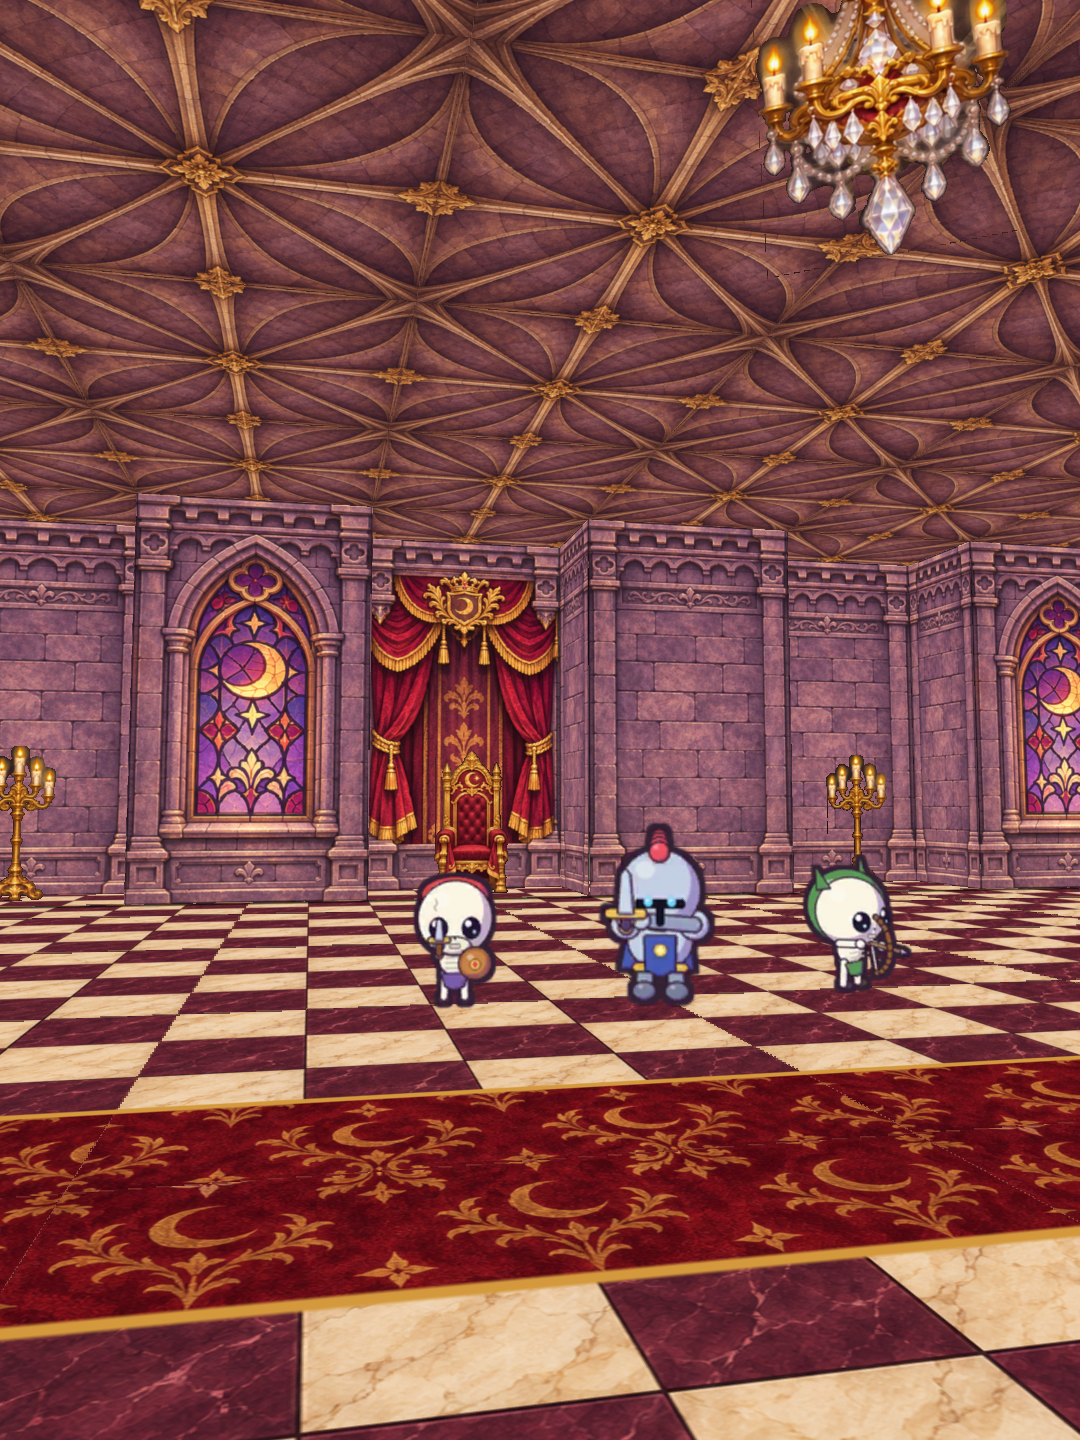
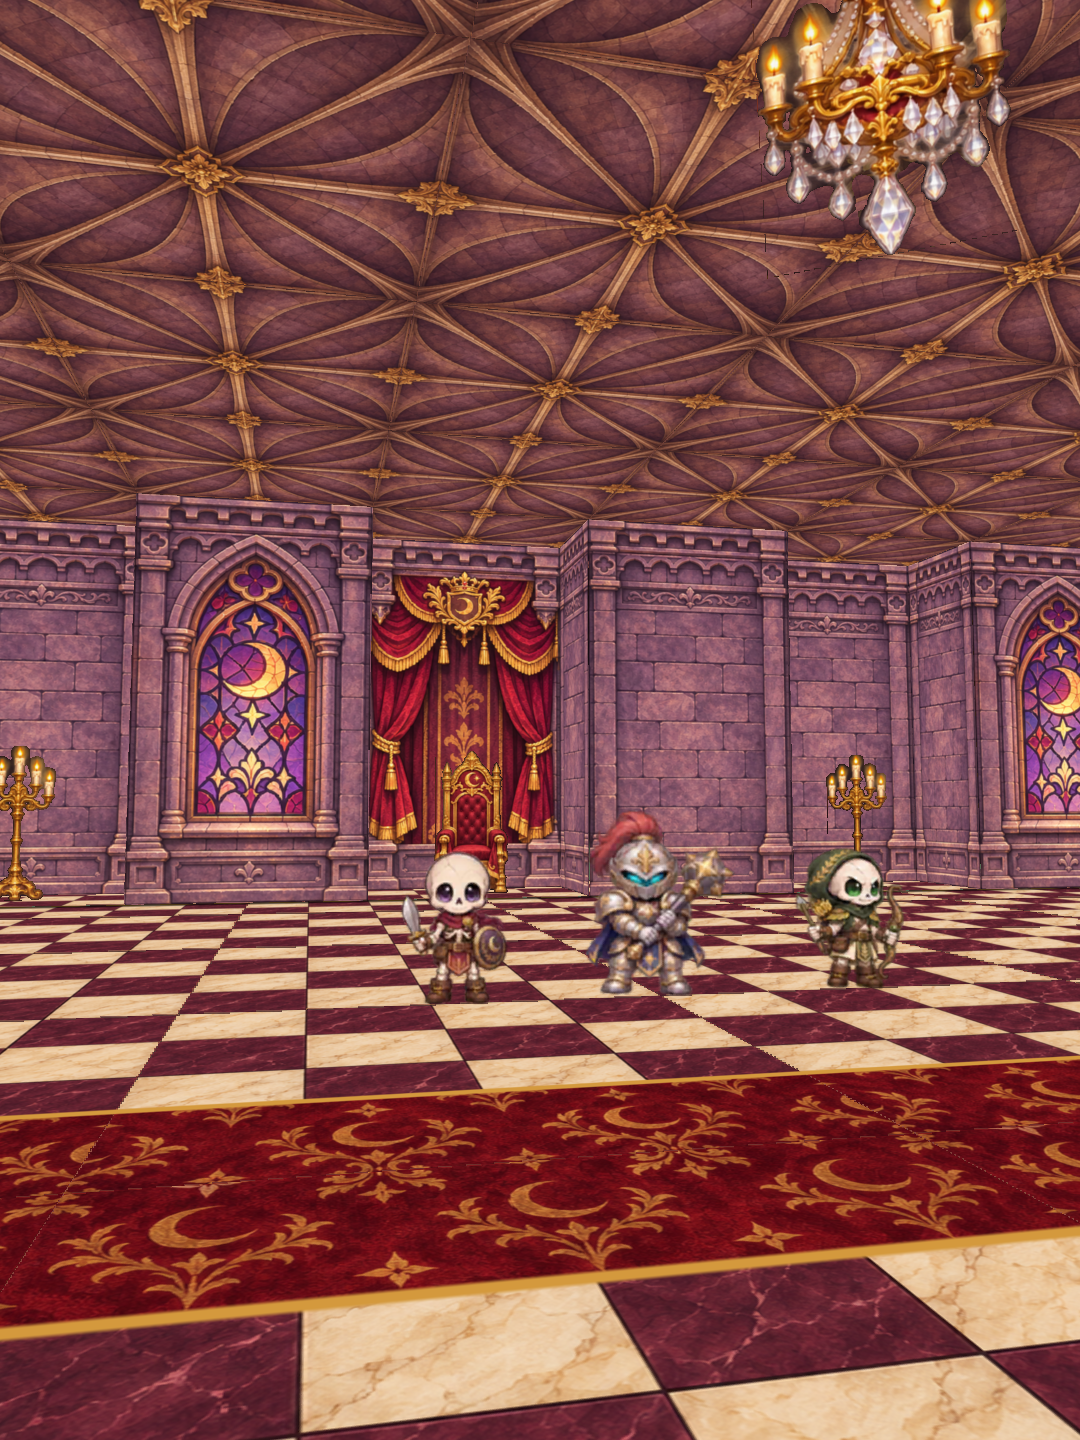
Verify castle chibi redraw in Unity Android and iOS builds

Changed region(s): [[0.55, 0.5625, 0.6722, 0.7188], [0.3667, 0.5938, 0.4889, 0.7188], [0.7333, 0.5625, 0.8556, 0.6875]]

diff --git a/spellduel-unity/Tools/check_castle_art.py b/spellduel-unity/Tools/check_castle_art.py
@@ -23,7 +23,7 @@ for name in ['walls','props','surfaces']:
  if name=='props':check(im.mode=='RGBA' and im.getchannel('A').getextrema()==(0,255),'props alpha')
  meta=Path(str(p)+'.meta').read_text()
  for value in ['enableMipMap: 0','maxTextureSize: 2048','nPOTScale: 0']:check(value in meta,name+' '+value)
-# Presentation scope: gameplay/data/enemy animation sources stay byte-identical.
+# Presentation scope: gameplay and data stay byte-identical to the task baseline.
 protected=['Assets/SpellDuel/Runtime/Combat*.cs','Assets/SpellDuel/Runtime/SoloBattle*.cs','Assets/SpellDuel/Runtime/Explore.cs','Assets/SpellDuel/Runtime/ExploreDungeon.cs','Assets/SpellDuel/Resources/dungeons.txt']
 for pattern in protected:
  for p in root.glob(pattern):

diff --git a/spellduel-unity/Docs/castle_2d_preview/enemy_redesign/README.md b/spellduel-unity/Docs/castle_2d_preview/enemy_redesign/README.md
@@ -16,4 +16,6 @@
 重建：`python spellduel-unity/Tools/sprite_enemies/pack_castle_painted.py`
 驗證：`python spellduel-unity/Tools/check_castle_enemies.py`
 
-原生 Unity 預覽及 Android/iOS 編譯證據完成後補入。本輪沒有修改 Runtime、戰鬥、連線、資料或動畫時間。
+原生 Unity 驗證：[41536524288](https://github.com/paul771127/AnimeGenerate/actions/runs/41536524288)，來源 commit `8242dcb`，成功。`castle_redesign_castle_*.png` 是 Unity 直接使用 SpriteEnemyView 的貼圖、材質及 UV 格式渲染；六列依序是待機、移動、蓄力、攻擊、受擊、倒地，每列八方向。`native_overview.jpg` 是八種原生檢查圖的縮圖總覽。五間城堡的新版敵人場景圖在上一層資料夾。
+
+八張遊戲 PNG 合計約 20.97 MiB，尺寸與原版相同；大型來源圖保存在 Tools，沒有放進 Assets，不會隨遊戲打包。本輪沒有修改 Runtime、戰鬥、連線、資料或動畫時間。Android／iOS 驗證：[41536527888](https://github.com/paul771127/AnimeGenerate/actions/runs/41536527888)，來源 commit `8242dcb`，Android、iOS Unity 匯出、Xcode 未簽署 IPA 均成功。原生及平台 CI JSON 位於上一層資料夾；check_castle_art.py 會比對實際受測內容，避免拿舊版驗證當作新版通過。這是 CI 編譯與原生渲染驗證，未宣稱手機實機遊玩驗收。
